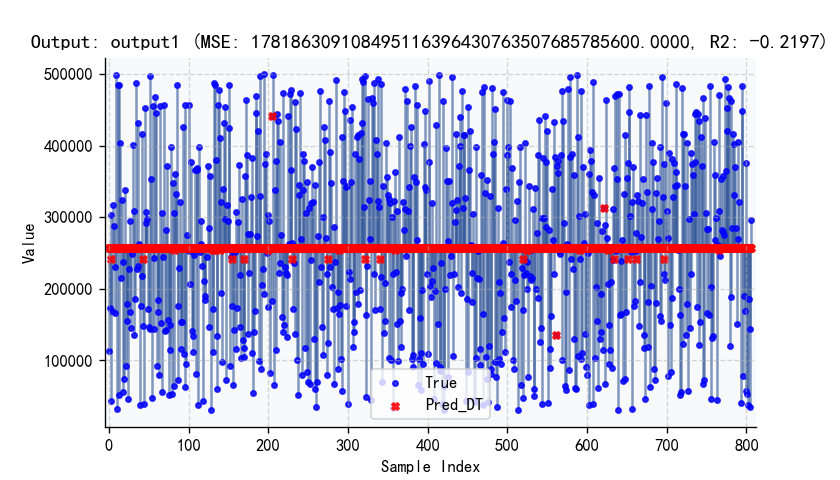
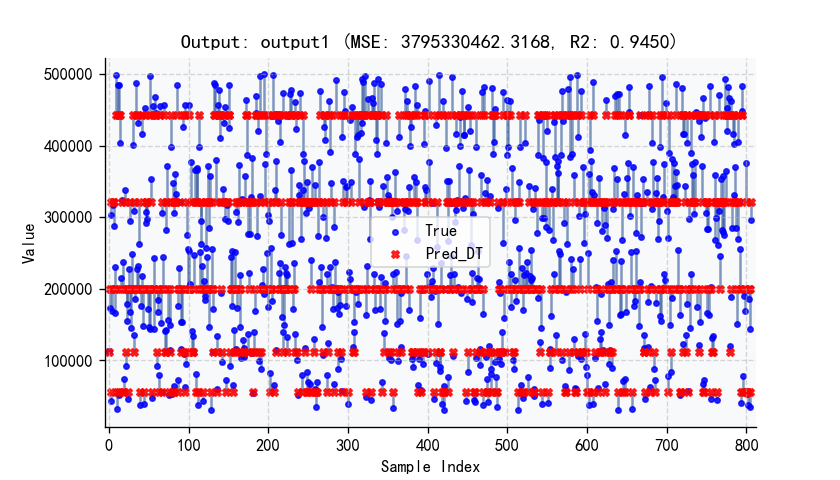
今天终于吧MMoE模型调试完毕了，下一步就是指标以及把导入数据以及训练验模功能放在一起啦，还有就是加载模型的画图功能就是加载预训练模型之后如何在画布上展示。

diff --git a/ALL_Algorithms/Algorithms.py b/ALL_Algorithms/Algorithms.py
@@ -534,7 +534,7 @@ class MMoE(nn.Module):
         self.num_experts = num_experts
         self.num_tasks = num_tasks
         self.input_dim = input_dim
-        self.out_dim = output_dim
+        # self.out_dim = output_dim
         #专家网络
         self.experts = nn.ModuleList([
             Expert(input_dim,expert_hidden,dropout_rate) for _ in range(num_experts)
@@ -545,8 +545,12 @@ class MMoE(nn.Module):
                 nn.Softmax(dim=1)
             ) for _ in range(num_tasks)
         ])
+        # self.task_layers = nn.ModuleList([
+        #     nn.Linear(expert_hidden,output_dim) for _ in range(num_tasks)
+        # ])
         self.task_layers = nn.ModuleList([
-            nn.Linear(expert_hidden,output_dim) for _ in range(num_tasks)
+            nn.Linear(expert_hidden, 1)  # 关键修改：输出维度固定为1
+            for _ in range(num_tasks)
         ])
     
     def forward(self,x):
@@ -572,7 +576,13 @@ class MMoE(nn.Module):
         if self.num_tasks == 1:
             return outputs[0],cv_losses[0]
         else:
-            return outputs,cv_losses
+            # return outputs,cv_losses
+            
+             # 将输出列表拼接为张量 (batch_size, num_tasks, output_dim)
+            outputs_tensor = torch.cat(outputs, dim=1)  # 假设output_dim=1，拼接后为(batch, num_tasks)
+            # 将损失列表转换为张量并求和（或取平均）
+            cv_losses_tensor = torch.stack(cv_losses).mean()  # 多任务损失取平均
+            return outputs_tensor, cv_losses_tensor
 
 class MMoERegressor:
     def __init__(self,input_dim,output_dim,num_experts = 5,expert_hidden = 64,
@@ -633,6 +643,9 @@ class MMoERegressor:
             epoch_loss = 0.0
             for batch_X,batch_y in dataloader:
                 optimizer.zero_grad()
+                # 强制转换为Tensor，确保类型正确
+                batch_X = batch_X if isinstance(batch_X, torch.Tensor) else torch.FloatTensor(batch_X).to(self.device)
+                batch_y = batch_y if isinstance(batch_y, torch.Tensor) else torch.FloatTensor(batch_y).to(self.device)
                 #前向传播
                 predictions, cv_losses = self.model(batch_X)
                 #计算损失（主损失和平衡损失）
@@ -660,7 +673,7 @@ class MMoERegressor:
         
         #预测
         self.model.eval()
-        with torch.nograd():
+        with torch.no_grad():
             predictions, _ = self.model(X_tensor)
             return predictions.cpu().numpy()
     
